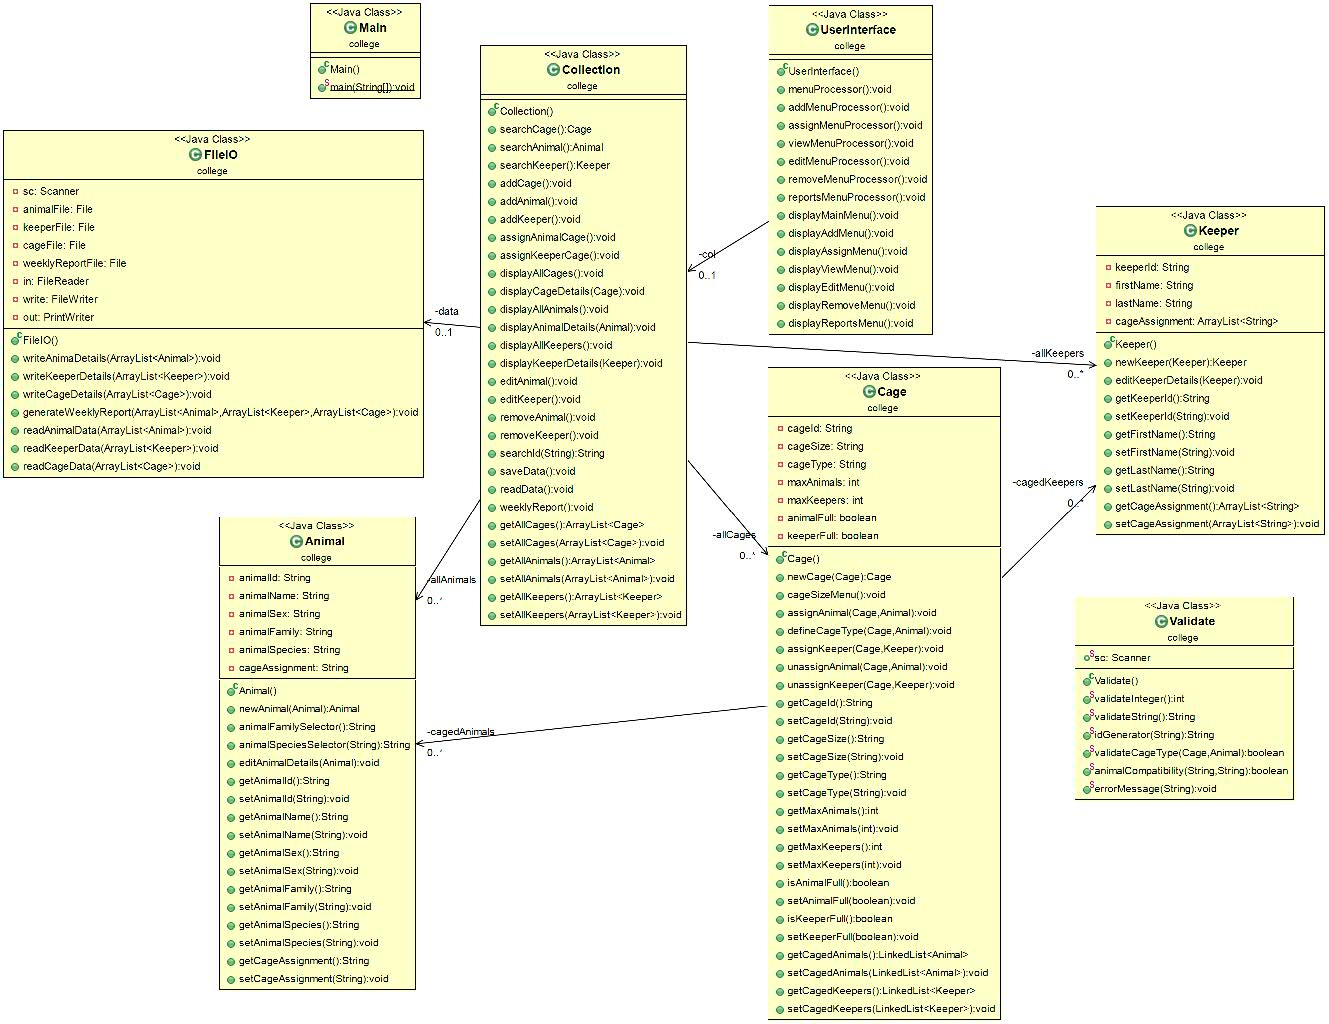
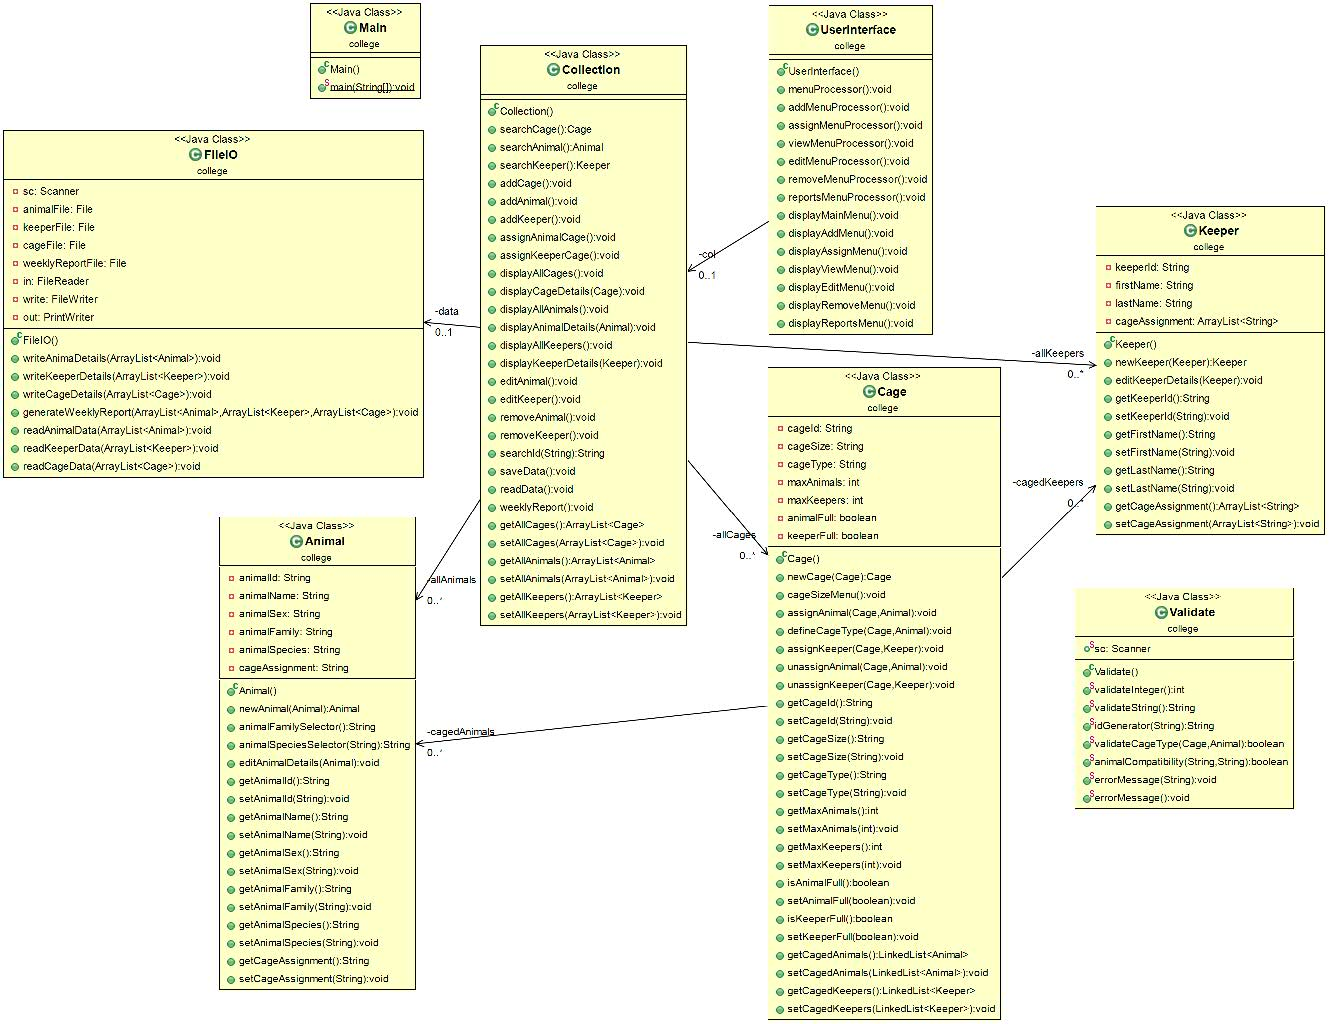
fixed edit animal/keeper methods

Changed region(s): [[0.8021, 0.5625, 0.9872, 0.8125]]

diff --git a/src/college/Cage.java b/src/college/Cage.java
@@ -13,8 +13,6 @@ public class Cage {
 	private String cageType;
 	private int maxAnimals;
 	private int maxKeepers;
-	private boolean animalFull;
-	private boolean keeperFull;
 	private LinkedList<Animal> cagedAnimals;
 	private LinkedList<Keeper> cagedKeepers;
 	
@@ -278,22 +276,6 @@ public class Cage {
 
 	public void setMaxKeepers(int maxKeepers) {
 		this.maxKeepers = maxKeepers;
-	}
-
-	public boolean isAnimalFull() {
-		return animalFull;
-	}
-
-	public void setAnimalFull(boolean animalFull) {
-		this.animalFull = animalFull;
-	}
-
-	public boolean isKeeperFull() {
-		return keeperFull;
-	}
-
-	public void setKeeperFull(boolean keeperFull) {
-		this.keeperFull = keeperFull;
 	}
 
 	public LinkedList<Animal> getCagedAnimals() {

diff --git a/src/college/Collection.java b/src/college/Collection.java
@@ -265,8 +265,13 @@ public class Collection {
 	 */
 	public void editAnimal() {
 		Animal animal = searchAnimal();
-		animal.editAnimalDetails(animal);
-		displayAnimalDetails(animal);
+		if(animal != null) {
+			animal.editAnimalDetails(animal);
+			displayAnimalDetails(animal);
+		} else {
+			Validate.errorMessage("Animal ID");
+		}
+		
 	}
 	
 	/*
@@ -278,8 +283,12 @@ public class Collection {
 	 */
 	public void editKeeper() {
 		Keeper keeper = searchKeeper();
-		keeper.editKeeperDetails(keeper);
-		displayKeeperDetails(keeper);
+		if(keeper != null) {
+			keeper.editKeeperDetails(keeper);
+			displayKeeperDetails(keeper);
+		} else {
+			Validate.errorMessage("Keeper ID");
+		}
 	}
 	
 	/*

diff --git a/src/college/FlyingBird.java b/src/college/FlyingBird.java
@@ -1,0 +1,29 @@
+package college;
+
+public class FlyingBird extends Animal {
+
+	private String wingSpan;
+	private String optFlightSpeed;
+	
+	public FlyingBird() {
+		
+	}
+
+	public String getWingSpan() {
+		return wingSpan;
+	}
+
+	public void setWingSpan(String wingSpan) {
+		this.wingSpan = wingSpan;
+	}
+
+	public String getOptFlightSpeed() {
+		return optFlightSpeed;
+	}
+
+	public void setOptFlightSpeed(String optFlightSpeed) {
+		this.optFlightSpeed = optFlightSpeed;
+	}
+	
+	
+}

diff --git a/src/college/NonFlyingBird.java b/src/college/NonFlyingBird.java
@@ -1,0 +1,29 @@
+package college;
+
+public class NonFlyingBird extends Animal {
+
+	private String habitat;
+	private String optLandSpeed;
+	
+	public NonFlyingBird() {
+		
+	}
+
+	public String getHabitat() {
+		return habitat;
+	}
+
+	public void setHabitat(String habitat) {
+		this.habitat = habitat;
+	}
+
+	public String getOptLandSpeed() {
+		return optLandSpeed;
+	}
+
+	public void setOptLandSpeed(String optLandSpeed) {
+		this.optLandSpeed = optLandSpeed;
+	}
+	
+	
+}

diff --git a/src/college/Reptile.java b/src/college/Reptile.java
@@ -1,0 +1,28 @@
+package college;
+
+public class Reptile extends Animal {
+
+	private String environment;
+	private String cageTemp;
+	
+	public Reptile() {
+		
+	}
+
+	public String getEnvironment() {
+		return environment;
+	}
+
+	public void setEnvironment(String environment) {
+		this.environment = environment;
+	}
+
+	public String getCageTemp() {
+		return cageTemp;
+	}
+
+	public void setCageTemp(String cageTemp) {
+		this.cageTemp = cageTemp;
+	}
+	
+}

diff --git a/src/college/Mammal.java b/src/college/Mammal.java
@@ -1,0 +1,28 @@
+package college;
+
+public class Mammal extends Animal {
+
+	private String animalMate;
+	private String gaveBirth;
+	
+	public Mammal() {
+		
+	}
+
+	public String getAnimalMate() {
+		return animalMate;
+	}
+
+	public void setAnimalMate(String animalMate) {
+		this.animalMate = animalMate;
+	}
+
+	public String getGaveBirth() {
+		return gaveBirth;
+	}
+
+	public void setGaveBirth(String gaveBirth) {
+		this.gaveBirth = gaveBirth;
+	}
+	
+}

diff --git a/src/college/UserInterface.java b/src/college/UserInterface.java
@@ -349,5 +349,6 @@ public class UserInterface {
 		System.out.println("\n======== REPORTS ========\n");
 		System.out.println("1.  Generate Weekly Report");
 		System.out.println("2.  Return to Main Menu");
+		System.out.println("\n\nPlease choose an option:");
 	}
 }

diff --git a/src/college/Validate.java b/src/college/Validate.java
@@ -141,4 +141,9 @@ public class Validate {
 		System.out.flush();
 	}
 	
+	public static void errorMessage() {
+		System.err.println("Error");
+		System.out.flush();
+	}
+	
 }
